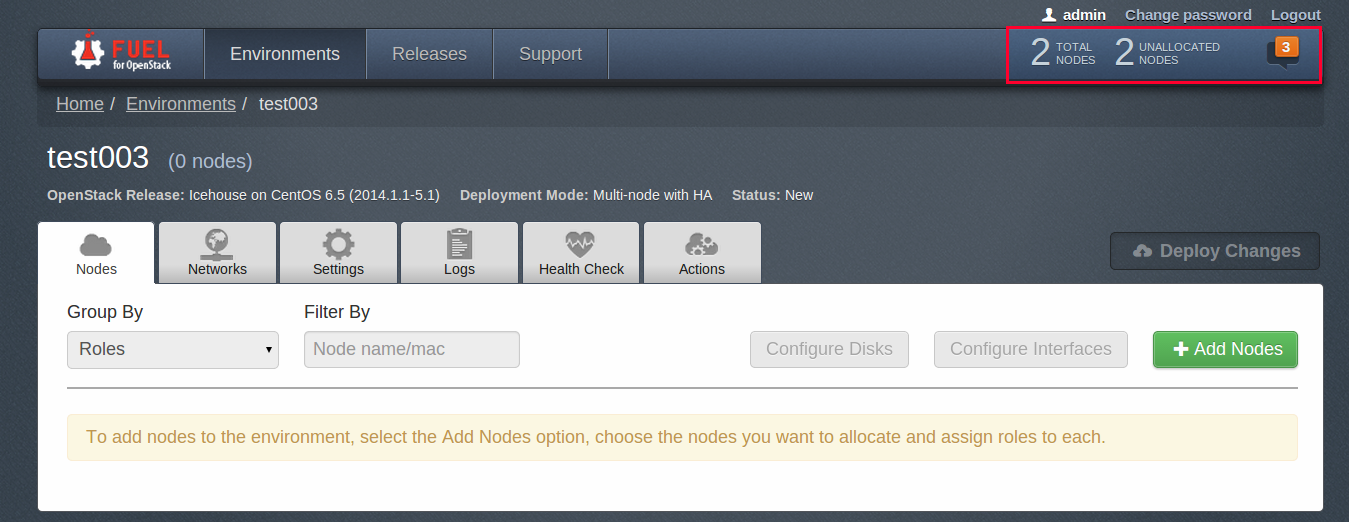
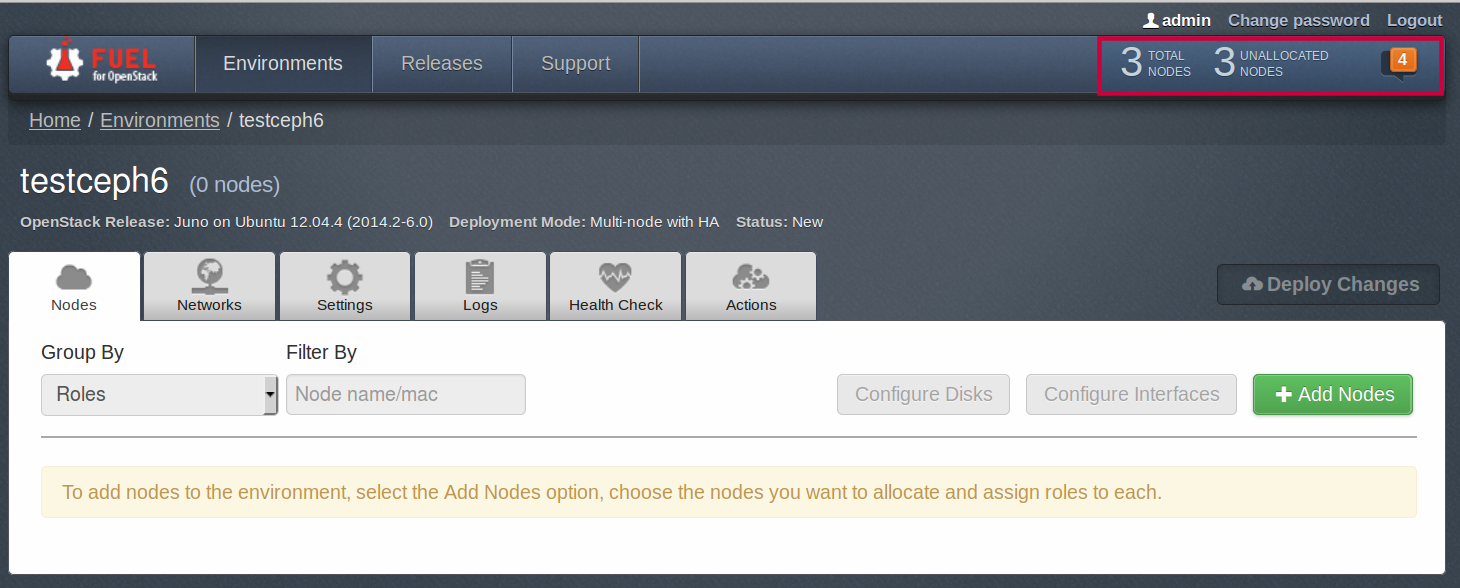
Screen shots for roles and nodes
Updated screen shots to match 6.0 screens.

add-nodes1.png shows the release number so will have to be updated for GA

Changed region(s): [[0.0, 0.3678, 0.9963, 0.9808], [0.0, 0.0, 1.0, 0.2452], [0.0, 0.2759, 0.1868, 0.3372]]

diff --git a/pages/user-guide/config-environment/1000-assign-roles.rst b/pages/user-guide/config-environment/1000-assign-roles.rst
@@ -26,26 +26,27 @@ and a list of unallocated nodes at the bottom.
 
 To assign roles to the nodes:
 
-- Select the role or roles you want to assign
-- Click on the appropriate node(s) in the "Unallocated Nodes" list
+- Select the role or roles you want to assign;
+  roles that cannot be assigned are indicated.
+- Click on the appropriate node(s) in the "Unallocated Nodes" list.
 - Click on the "Apply Changes" button.
 - Proceed to do this until all roles have been assigned to all nodes.
 
 In this example,
-both the "Compute" and "Storage - Cinder LVM" roles
-are being assigned to this node.
+the "Controller" node is assigned to this node.
 
 As you make your selections,
-Fuel displays information about combinations
-that are not allowed
-and other configurations that are required.
-For example, in this sample screen,
-it tells you that the Controller role
-cannot be combined with the Compute and Cinder LVM roles
-that you have selected.
+Fuel displays an icon
+(a gold triangle with an exclamation point)
+next to roles that are not allowed.
+It also tells you about other configurations that are required.
+
+For example, in the sample screen above,
+you can see that you cannot add a Compute or Zabbix Server role
+with the Controller role you have selected.
 
 .. note:: The Zabbix role appears on this screen
-          only after you have enabled
+          only when you have enabled
           :ref:`experimental features<experimental-features-term>`
           on the Fuel Master node.
 
@@ -72,7 +73,7 @@ Fuel displays the configuration you have chosen:
 .. image:: /_images/user_screen_shots/assign-role-confirm.png
    :width: 80%
 
-To rename the nodes, click on the "Unnamed nodes" string
+To rename the nodes, click on the "Untitled" string
 for each node and then type in the name you want to use.
 
 For more information, see:
